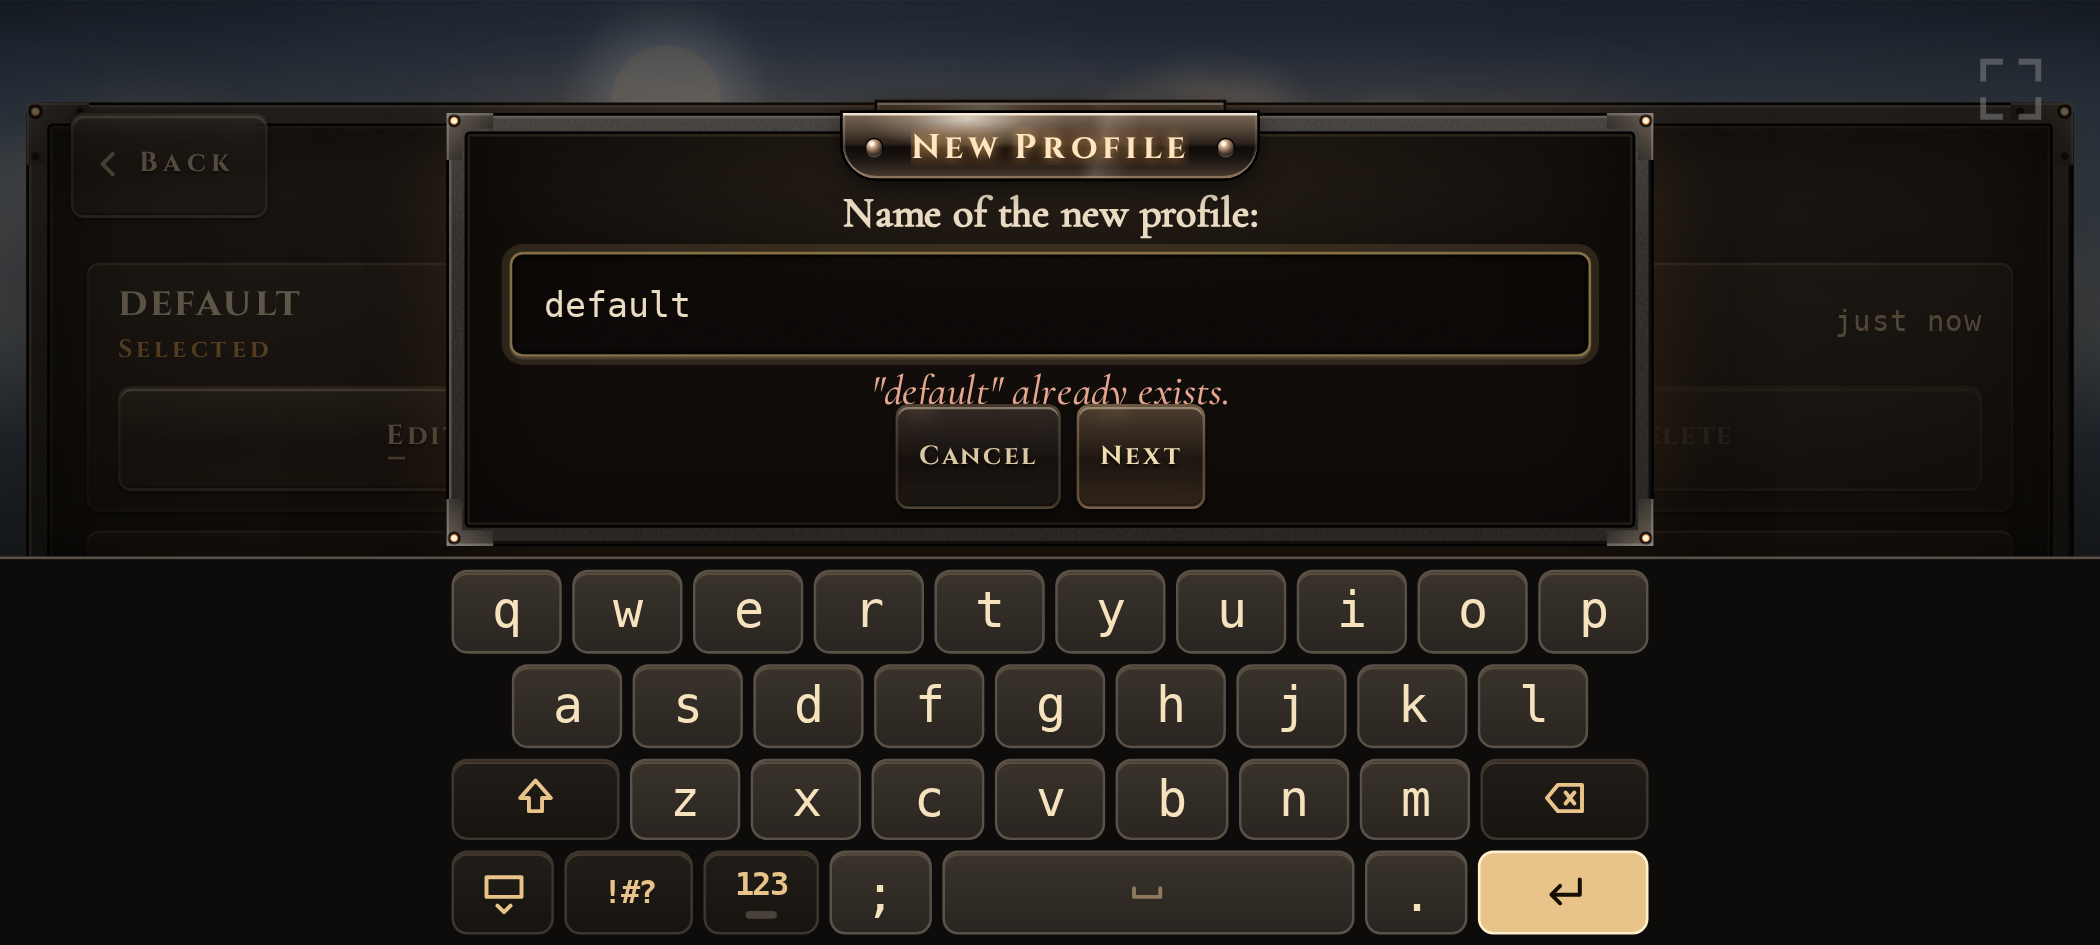
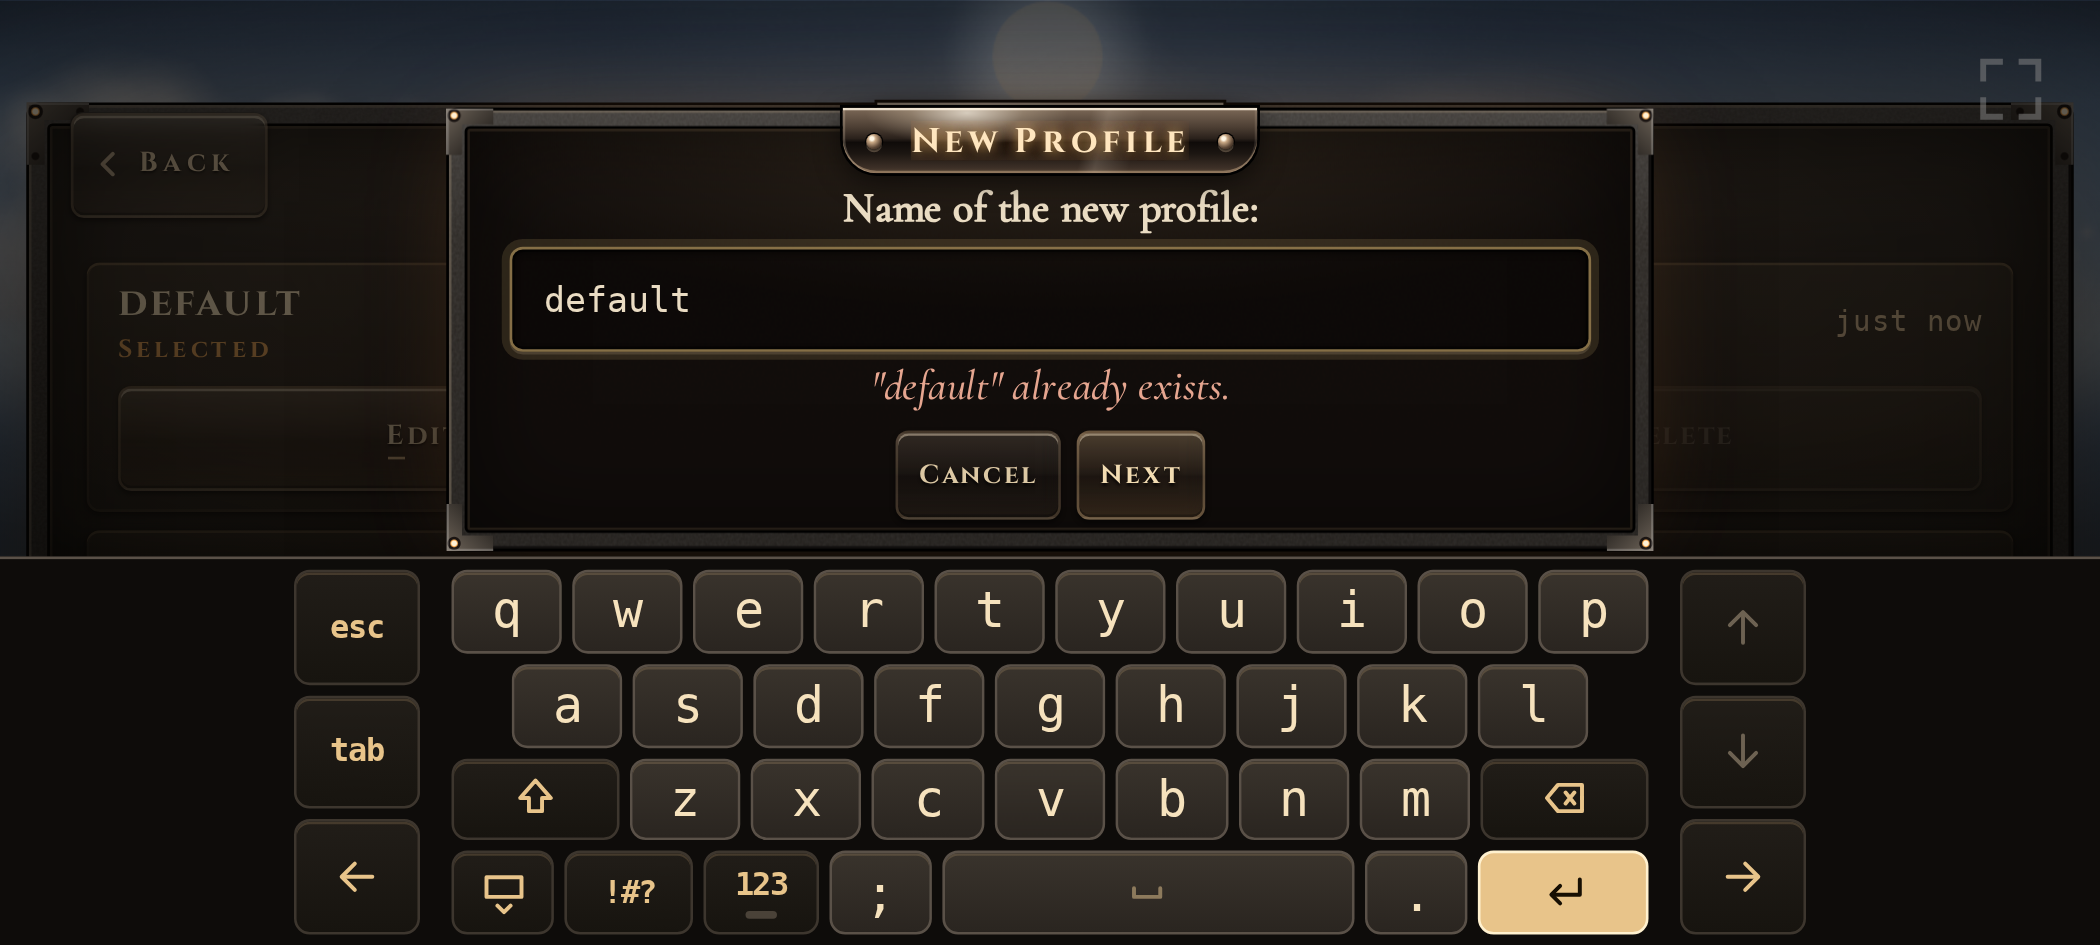
fix(phone): a dialog's error line keeps its height above the buttons on a low page
Claude-Session: https://claude.ai/code/session_01Fx3riStxhdjKzPUdQks2p8

diff --git a/tests/e2e/phone-profile-dialogs.spec.ts b/tests/e2e/phone-profile-dialogs.spec.ts
@@ -77,6 +77,22 @@ async function expectInRoom(page: Page, l: Locator, minH = 0): Promise<void> {
     .toBe(true);
 }
 
+/** The dialog's error line is whole (not squeezed or cut), under the field and clear of the buttons. */
+async function expectErrorClear(page: Page, dlg: Locator): Promise<void> {
+  const err = dlg.locator('.wc-lk-dialog-err');
+  await expectInRoom(page, err, 18);
+  await expect
+    .poll(async () => {
+      const e = (await err.boundingBox())!;
+      const f = (await dlg.locator('input').boundingBox())!;
+      const whole = await err.evaluate((el) => el.scrollHeight <= el.clientHeight + 0.5);
+      const boxes = await Promise.all(['CANCEL', 'OK'].map(async (b) => (await dlg.locator(`[data-btn="${b}"]`).boundingBox())!));
+      const clear = boxes.every((b) => b.y >= e.y + e.height + 3);
+      return whole && clear && e.y >= f.y + f.height ? 'clear' : `error ${e.y}..${e.y + e.height}, field ends ${f.y + f.height}, buttons at ${boxes.map((b) => b.y).join(', ')}, whole ${whole}`;
+    })
+    .toBe('clear');
+}
+
 async function expectKeyboard(page: Page, up: boolean): Promise<void> {
   if (up) {
     await expect(okbHost(page)).toBeVisible();
@@ -123,6 +139,9 @@ for (const size of SIZES) {
       await expectKeyboard(page, true);
       await expectInRoom(page, name);
       for (const b of ['CANCEL', 'OK']) await expectInRoom(page, name.locator(`[data-btn="${b}"]`), 32);
+      // The message stands whole between the field and the buttons, with air above them (round 53h:
+      // on a phone on its side it was squeezed under Cancel and Next).
+      await expectErrorClear(page, name);
       await shot(page, `53-p-new-error-keyboard-${tag}`);
       for (let i = 0; i < 7; i++) await okbKey(page, 'back').tap();
       await type(page, 'o', 'r', 'c');

diff --git a/src/phone/phone.css b/src/phone/phone.css
@@ -1672,11 +1672,11 @@ html.wc-phone.wc-okb-pg .wc-start-almanac {
  * the keys. The hint under the field gives way; an error still shows. */
 @media (max-height: 480px) {
   html.wc-phone.wc-okb-pg .wc-lk-dslot {
-    padding: 4px 16px;
+    padding: 2px 16px;
   }
 
   html.wc-phone.wc-okb-pg .wc-lk-dwin {
-    padding: 20px 16px 6px;
+    padding: 20px 16px 4px;
   }
 
   html.wc-phone.wc-okb-pg .wc-lk-dialog-b .wc-lk-q {
@@ -1692,13 +1692,23 @@ html.wc-phone.wc-okb-pg .wc-start-almanac {
     display: none;
   }
 
+  /* The error line keeps its own height (the window is a column that would
+   * squeeze it under the buttons: round 53h); with no error it takes none.
+   * Lower buttons make its room, and a message of two lines scrolls the
+   * window instead of lying over them. */
   html.wc-phone.wc-okb-pg .wc-lk-dialog-err {
+    flex: none;
     min-height: 0;
     margin: 2px 0 0;
   }
 
   html.wc-phone.wc-okb-pg .wc-lk-dialog-btns {
-    margin: 6px 0 0;
+    flex: none;
+    margin: 5px 0 0;
+  }
+
+  html.wc-phone.wc-okb-pg .wc-lk-dialog-btns .wc-lk-btn {
+    min-height: 34px;
   }
 
   /* The export editor's comment: the composer whole above the keys (its
